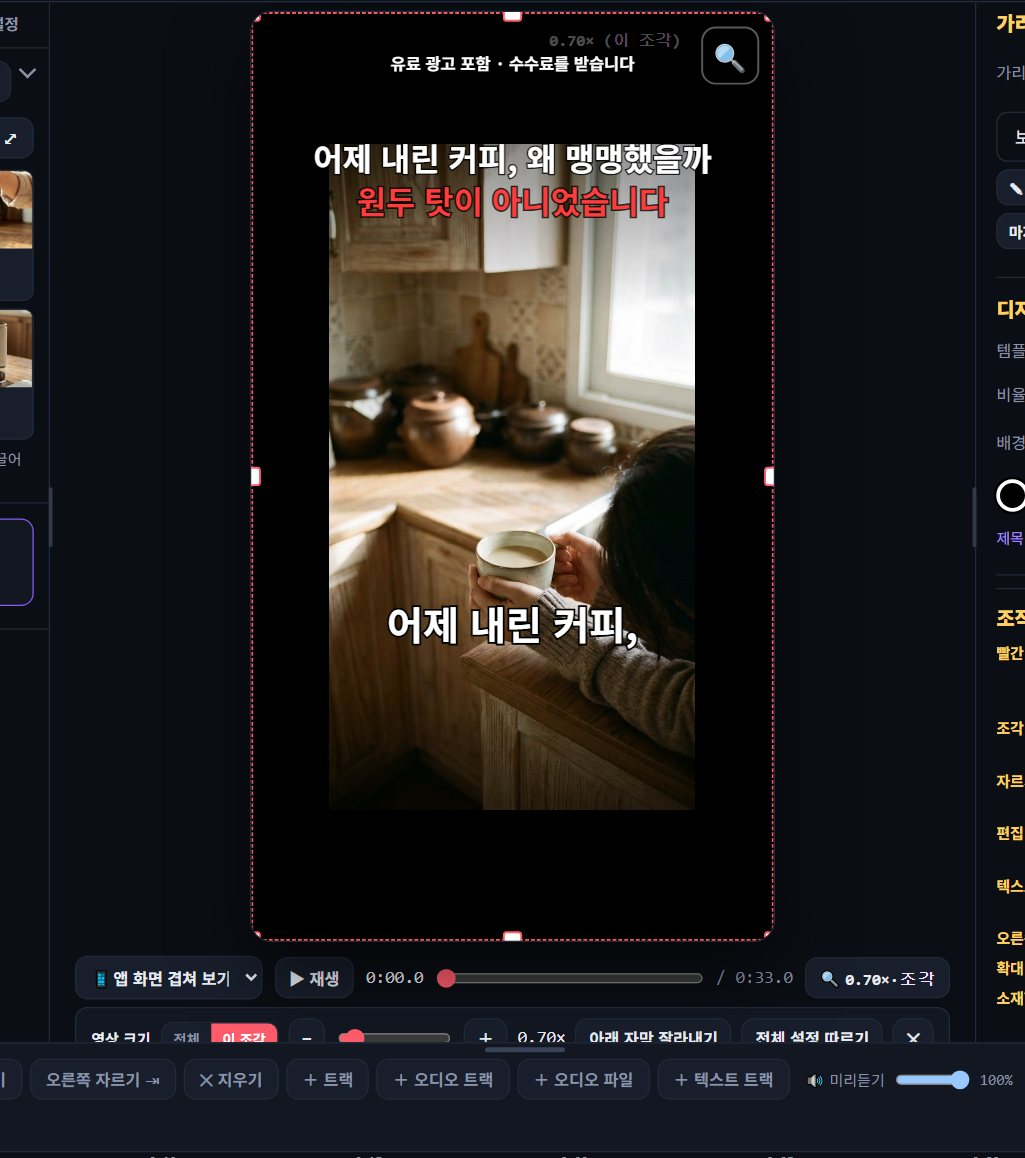
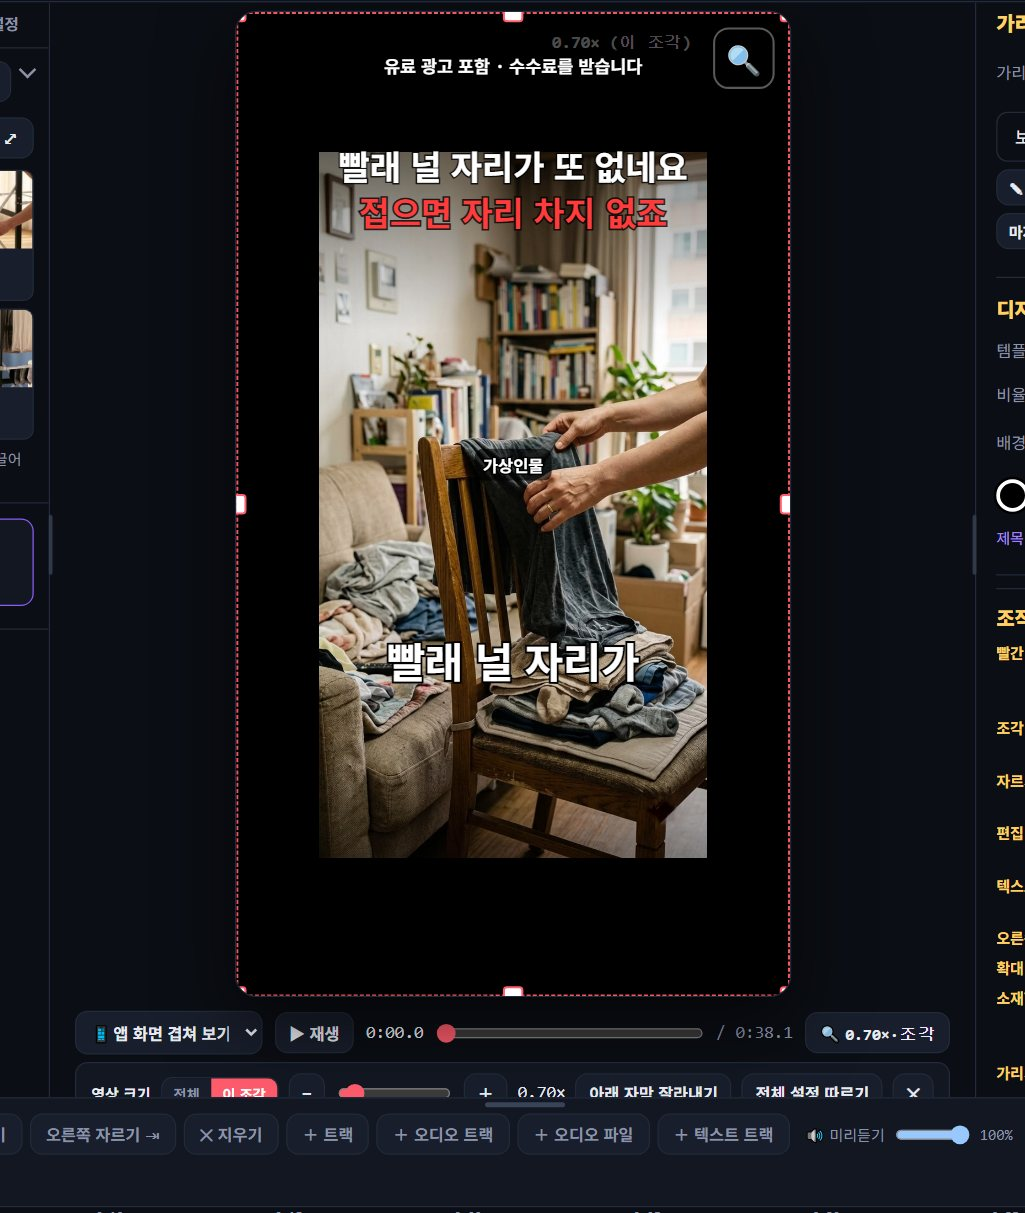
설명서 화면을 빨래건조대 프로젝트로 다시 촬영
이전 캡처 대상(커피 그라인더)의 미리보기 AI 이미지가 사람 머리가 몸에서
떨어져 나온 불량 컷이라 설명서 편집기 화면 대부분에 그대로 실려 있었다.

diff --git a/guide/index.html b/guide/index.html
@@ -31,15 +31,7 @@ kbd,code{font-family:var(--mono);font-size:.88em;background:var(--bg3);padding:1
 details{background:var(--bg2);border:1px solid var(--line);border-radius:10px;padding:10px 16px;margin:8px 0}summary{cursor:pointer;font-weight:700;color:#fff}details p{margin:8px 0 2px}
 @media(max-width:820px){.wrap{grid-template-columns:1fr}nav{position:static;height:auto;border-right:0;border-bottom:1px solid var(--line)}main{padding:24px 18px 60px}}
 </style>
-<style>
-.legalfoot{margin-top:26px;padding-top:20px;border-top:1px solid #232b3a;
-  font:400 13px/1.95 "Noto Sans KR","Malgun Gothic",sans-serif;color:#8b93a6;letter-spacing:0}
-.legalfoot b{color:#c3c8d4;font-weight:700}
-.legalfoot a{color:#ffd166;text-decoration:none}
-.legalfoot a:hover{text-decoration:underline}
-.legalfoot .todo{color:#ff8a95;background:rgba(255,92,108,.12);
-  border:1px dashed rgba(255,92,108,.5);border-radius:6px;padding:1px 7px;font-size:12px}
-</style></head>
+</head>
 <body translate="no"><div class="wrap">
 <nav>
   <div class="brand"><i>✂</i> 쇼츠컷 설명서</div>
@@ -354,7 +346,7 @@ details{background:var(--bg2);border:1px solid var(--line);border-radius:10px;pa
 <li>AI가 만든 장면이나 가상 인물이 들어가면 「AI로 만든 영상」임을 설명에 밝히세요. 실제 사용 후기처럼 말하는 문장은 넣지 마세요.</li>
 <li>조회수·수익은 프로그램이 보장하지 않습니다.</li>
 </ul>
-<div class="foot">쇼츠컷 ShortsCut · <a href="https://shortscut.kr/">shortscut.kr</a> · 이 문서의 캡처는 실제 프로그램 화면이며 채널명은 가렸습니다. 문의와 구매는 <a href="../#buy">소개 페이지의 구매 안내</a>.</div><!--legal--><div class="legalfoot"><b>동화기획</b> · 대표 김경하 · 사업자등록번호 608-09-36630 (<a href="https://www.ftc.go.kr/bizCommPop.do?wrkr_no=6080936630" target="_blank" rel="noopener">사업자정보 확인</a>)<br>통신판매업 신고 015-서울금천-1043 · 주소 서울특별시 금천구 독산로51길 45, 2층(독산동)<br>전화 050-6683-5882 · 이메일 photolark@gmail.com · 호스팅서비스 제공자 GitHub, Inc.<br><a href="/terms/">이용약관</a> · <a href="/privacy/"><b>개인정보처리방침</b></a> · <a href="/refund/">청약철회·환불</a></div><!--/legal-->
+<div class="foot">쇼츠컷 ShortsCut · <a href="https://shortscut.kr/">shortscut.kr</a> · 이 문서의 캡처는 실제 프로그램 화면이며 채널명은 가렸습니다. 문의와 구매는 <a href="../#buy">소개 페이지의 구매 안내</a>.</div>
 </main>
 </div></body>
 </html>
